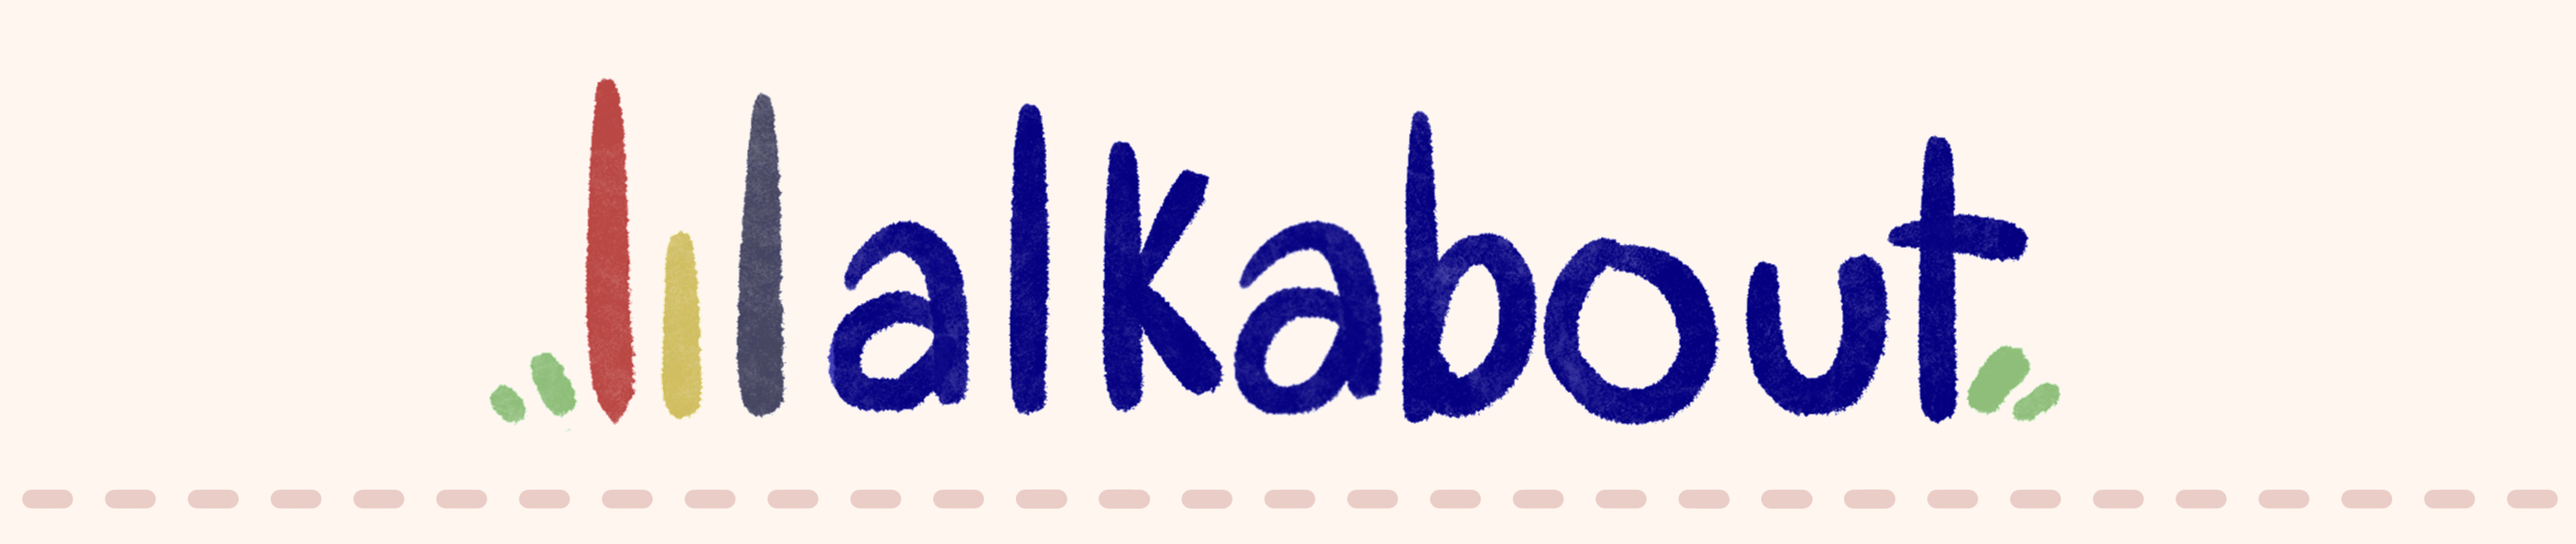
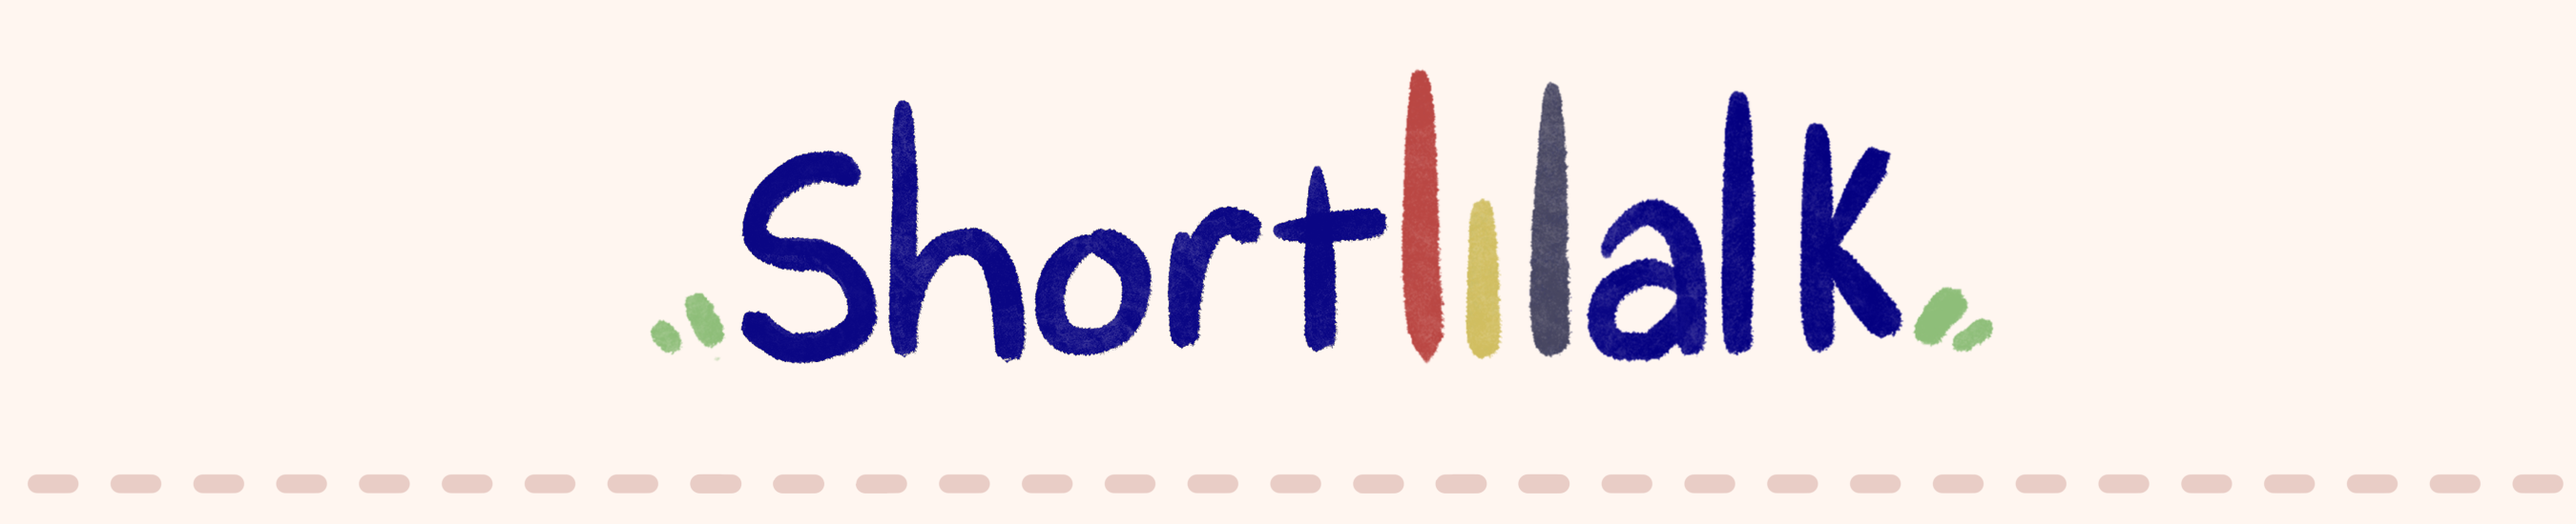
Add files via upload
updated text positioning and header

Changed region(s): [[0.1867, 0.1236, 0.8089, 0.8036], [0.0, 0.8964, 0.9956, 0.9582]]

diff --git a/Story_K.html b/Story_K.html
@@ -1,13 +1,14 @@
 <html>
 <head>
     <img src="img/header.png" alt="All Australian Animals" width="100%">
-  <link rel="stylesheet" href="https://fonts.googleapis.com/css2?family=Nanum+Pen+Script&display=swap">
+    <link rel="stylesheet" href="https://fonts.google.com/specimen/Handlee">   
   <style>
     body {
-      font-family: "Nanum Pen Script", cursive;  
+      font-family: "Handlee", cursive;  
       background-image: url("img/koala_bg.png");
       background-repeat: no-repeat;
       background-size: cover;
+         background-size: 115% 100%;
     }
    </style>
   </head>
@@ -20,17 +21,15 @@
 
 <img src="img/koala_idle.gif" alt="All Australian Animals" width="100%">
 <div style="position: relative;">
-  <h1 style="font-size: 50px; position: absolute; top: 1; left: 50; z-index: 1;">Koala is very happy!</h1>
-  <p style="font-size: 28px; position: absolute; top: 130; left: 50; z-index: 1;">Eucalyptus leaves! Sweet eucalyptus leaves! They are so delicious! <br> Do you want to know why I love eating these leaves so much?</p>
-   <p style="font-size: 28px; position: absolute; top: 210; left: 70; z-index: 1;"> Long ago my ancestor was a human boy and he drank up all the water in his clan. He was so thirsty that he couldn't stop himself.<br> Everyone became angry at him and they banished mhim to the trees where he learned to drink from the eucalyptus leaves and became a Koala. <br> 
-    <p style="font-size: 28px; position: absolute; top: 360; left: 50; z-index: 1;"> Thanks for listening to my story, Here is a clue on where to find tadpole: 
+  <h1 style="font-size: 70px; position: absolute; top: 1; left: 50; z-index: 1;">Koala is very happy!</h1>
+  <p style="font-size: 35px; position: absolute; top: 130; left: 50; z-index: 1;">Eucalyptus leaves! Sweet eucalyptus leaves! They are so delicious! <br> Do you want to know why I love eating these leaves so much?</p>
+    <p style="font-size: 35px; position: absolute; top: 320; left: 50; z-index: 1;"> Here is a clue on where to find tadpole: 
        <br> What can’t walk but always runs, <br> And is filled with germs a ton, <br> I don’t know why tadpole resides there, <br> But towards the state library it can stare. </p>
 <img src="img/textbox.png" width="100%">
 </div>
 
-<footer>
-    <img src="img/footer.png" alt="All Australian Animals" width="100%">
-  <p style="font-size: 40px; position: absolute; top: 660; left: 50; z-index: 1;">Copyright © 2023 Walkabout
+<footer><img src="img/footer.png" alt="All Australian Animals" width="100%">
+  <p style="font-size: 30px; position: absolute; top: 1850; left: 50; z-index: 1;">Copyright © 2023 Walkabout
       <br>All rights reserved.</p>
 </footer>
     

diff --git a/Pet_K.html b/Pet_K.html
@@ -1,13 +1,13 @@
 <html>
 <head>
     <img src="img/header.png" alt="All Australian Animals" width="100%">
-  <link rel="stylesheet" href="https://fonts.googleapis.com/css2?family=Nanum+Pen+Script&display=swap"> 
+    <link rel="stylesheet" href="https://fonts.google.com/specimen/Handlee">   
   <style>
     body {
-      font-family: "Nanum Pen Script", cursive;    
+      font-family: "Handlee", cursive;   
       background-image: url("img/koala_bg.png");
       background-repeat: no-repeat;
-      background-size: cover;
+       background-size: 115% 100%;
     }
    </style>
   </head>
@@ -19,11 +19,11 @@
 <audio src="audio/backgroundmusic.mp3" autoplay loop></audio>
 
     <img src="img/backin5.png" alt="All Australian Animals" width="100%">
-  <h1 style="font-size: 50px; position: absolute; top: 1190; left: 50; z-index: 1;">Koala hated being pet!</h1>
-  <p style="font-size: 50px; position: absolute; top: 1290; left: 50; z-index: 1;">Don't pet me! Mind your grubby fingers before you go around petting random Koala's. If you find me again later, I might talk to you again if you feed me ಠ╭╮ಠ </p>
+  <div style="position: relative;">
+  <h1 style="font-size: 70px; position: absolute; top: 1; left: 50; z-index: 1;">Koala hated being pet!</h1>
+  <p style="font-size: 50px; position: absolute; top: 110; left: 50; z-index: 1;">Don't pet me! Mind your grubby fingers before you go around petting random Koala's. If you find me again later, I might talk to you again if you feed me ಠ╭╮ಠ </p>
 <img src="img/textbox.png" width="100%">
-<footer>
-    <img src="img/footer.png" alt="All Australian Animals" width="100%">
-  <p style="font-size: 40px; position: absolute; top: 660; left: 50; z-index: 1;">Copyright © 2023 Walkabout
+<footer><img src="img/footer.png" alt="All Australian Animals" width="100%">
+  <p style="font-size: 30px; position: absolute; top: 660; left: 50; z-index: 1;">Copyright © 2023 Walkabout
       <br>All rights reserved.</p>
 </footer>

diff --git a/Sing_K.html b/Sing_K.html
@@ -1,13 +1,13 @@
 <html>
 <head>
     <img src="img/header.png" alt="All Australian Animals" width="100%">
-  <link rel="stylesheet" href="https://fonts.googleapis.com/css2?family=Nanum+Pen+Script&display=swap">
+    <link rel="stylesheet" href="https://fonts.google.com/specimen/Handlee">   
   <style>
     body {
-      font-family: "Nanum Pen Script", cursive;  
+      font-family: "Handlee", cursive;  
       background-image: url("img/koala_bg.png");
       background-repeat: no-repeat;
-      background-size: cover;
+       background-size: 115% 100%;
     }
    </style>
   </head>
@@ -22,11 +22,12 @@
     <a href="Sing_2.html"><img src="img/Singbutton.png" alt="Sing" width="32%"/></a>
     <a href="Pet_K.html"><img src="img/Petbutton.png" alt="Pet" width="32%"/></a>
     <img src="img/Koala_sing.gif" alt="All Australian Animals" width="100%">
-  <h1 style="font-size: 50px; position: absolute; top: 1190; left: 50; z-index: 1;">You sung to Koala!</h1>
-  <p style="font-size: 50px; position: absolute; top: 1290; left: 50; z-index: 1;">ZZZ....ZZZ.... Sing? Do you want to sleep together?</p>
+  <div style="position: relative;">
+  <h1 style="font-size: 70px; position: absolute; top: 1; left: 50; z-index: 1;">You sung to Koala!</h1>
+  <p style="font-size: 60px; position: absolute; top: 110; left: 50; z-index: 1;">ZZZ....ZZZ.... Your singing is so calming?</p>
 <img src="img/textbox.png" width="100%">
 <footer>
-    <img src="img/footer.png" alt="All Australian Animals" width="100%">
-  <p style="font-size: 40px; position: absolute; top: 660; left: 50; z-index: 1;">Copyright © 2023 Walkabout
+<footer><img src="img/footer.png" alt="All Australian Animals" width="100%">
+  <p style="font-size: 30px; position: absolute; top: 660; left: 50; z-index: 1;">Copyright © 2023 Walkabout
       <br>All rights reserved.</p>
 </footer>

diff --git a/Feed_K.html b/Feed_K.html
@@ -1,13 +1,13 @@
 <html>
 <head>
     <img src="img/header.png" alt="All Australian Animals" width="100%">
-  <link rel="stylesheet" href="https://fonts.googleapis.com/css2?family=Nanum+Pen+Script&display=swap">  
+    <link rel="stylesheet" href="https://fonts.google.com/specimen/Handlee">   
   <style>
     body {
-      font-family: "Nanum Pen Script", cursive;  
+      font-family: "Handlee", cursive;  
       background-image: url("img/koala_bg.png");
       background-repeat: no-repeat;
-      background-size: cover;
+      background-size: 115% 100%;
     }
    </style>
   </head>
@@ -22,11 +22,11 @@
     <a href="Sing_K.html"><img src="img/Singbutton.png" alt="Sing" width="32%"/></a>
     <a href="Pet_K.html"><img src="img/Petbutton.png" alt="Pet" width="32%"/></a>
     <img src="img/Koala_feed.gif" alt="All Australian Animals" width="100%">
-  <h1 style="font-size: 50px; position: absolute; top: 1190; left: 50; z-index: 1;">Koala was fed!</h1>
-  <p style="font-size: 50px; position: absolute; top: 1290; left: 50; z-index: 1;">Koala seems to be engrossed in eating its leaves.</p>
+  <div style="position: relative;">
+  <h1 style="font-size: 70px; position: absolute; top: 1; left: 50; z-index: 1;">Koala was fed!</h1>
+  <p style="font-size: 60px; position: absolute; top: 110; left: 50; z-index: 1;">Koala seems to be engrossed in eating its leaves.</p>
 <img src="img/textbox.png" width="100%">
-<footer>
-    <img src="img/footer.png" alt="All Australian Animals" width="100%">
-  <p style="font-size: 40px; position: absolute; top: 660; left: 50; z-index: 1;">Copyright © 2023 Walkabout
+<footer><img src="img/footer.png" alt="All Australian Animals" width="100%">
+  <p style="font-size: 30px; position: absolute; top: 660; left: 50; z-index: 1;">Copyright © 2023 Walkabout
       <br>All rights reserved.</p>
 </footer>

diff --git a/Feed_2.html b/Feed_2.html
@@ -1,13 +1,13 @@
 <html>
 <head>
     <img src="img/header.png" alt="All Australian Animals" width="100%">
-  <link rel="stylesheet" href="https://fonts.googleapis.com/css2?family=Nanum+Pen+Script&display=swap">
+    <link rel="stylesheet" href="https://fonts.google.com/specimen/Handlee">   
   <style>
     body {
-      font-family: "Nanum Pen Script", cursive;  
+      font-family: "Handlee", cursive;  
       background-image: url("img/koala_bg.png");
       background-repeat: no-repeat;
-      background-size: cover;
+      background-size: 115% 100%;
     }
    </style>
   </head>
@@ -22,11 +22,11 @@
     <a href="Sing_K.html"><img src="img/Singbutton.png" alt="Sing" width="32%"/></a>
     <a href="Pet_K.html"><img src="img/Petbutton.png" alt="Pet" width="32%"/></a>
     <img src="img/Koala_feed.gif" alt="All Australian Animals" width="100%">
-  <h1 style="font-size: 50px; position: absolute; top: 1190; left: 50; z-index: 1;">Koala was fed!</h1>
-  <p style="font-size: 50px; position: absolute; top: 1290; left: 50; z-index: 1;">Koala seems to really enjoy eating.</p>
+  <div style="position: relative;">
+  <h1 style="font-size: 70px; position: absolute; top: 1; left: 50; z-index: 1;">Koala was fed!</h1>
+  <p style="font-size: 60px; position: absolute; top: 110; left: 50; z-index: 1;">Koala seems to really enjoy eating.</p>
 <img src="img/textbox.png" width="100%">
-<footer>
-    <img src="img/footer.png" alt="All Australian Animals" width="100%">
-  <p style="font-size: 40px; position: absolute; top: 660; left: 50; z-index: 1;">Copyright © 2023 Walkabout
+<footer><img src="img/footer.png" alt="All Australian Animals" width="100%">
+  <p style="font-size: 30px; position: absolute; top: 660; left: 50; z-index: 1;">Copyright © 2023 Walkabout
       <br>All rights reserved.</p>
 </footer>

diff --git a/Sing_2.html b/Sing_2.html
@@ -1,13 +1,13 @@
 <html>
 <head>
     <img src="img/header.png" alt="All Australian Animals" width="100%">
-  <link rel="stylesheet" href="https://fonts.googleapis.com/css2?family=Nanum+Pen+Script&display=swap">
+    <link rel="stylesheet" href="https://fonts.google.com/specimen/Handlee">   
   <style>
     body {
-      font-family: "Nanum Pen Script", cursive;    
+      font-family: "Handlee", cursive;   
       background-image: url("img/koala_bg.png");
       background-repeat: no-repeat;
-      background-size: cover;
+       background-size: 115% 100%;
     }
    </style>
   </head>
@@ -22,11 +22,11 @@
     <img src="img/nosing.png" alt="Sing" width="32%"/>
     <a href="Pet_K.html"><img src="img/Petbutton.png" alt="Pet" width="32%"/></a>
     <img src="img/Koala_sing.gif" alt="All Australian Animals" width="100%">
-  <h1 style="font-size: 50px; position: absolute; top: 1190; left: 50; z-index: 1;">You sung to Koala again!</h1>
-  <p style="font-size: 50px; position: absolute; top: 1290; left: 50; z-index: 1;">Koala is about to fall asleep!</p>
+  <div style="position: relative;">
+  <h1 style="font-size: 70px; position: absolute; top: 1; left: 50; z-index: 1;">You sung to Koala again!</h1>
+  <p style="font-size: 60px; position: absolute; top: 110; left: 50; z-index: 1;">Koala is about to fall asleep!</p>
 <img src="img/textbox.png" width="100%">
-<footer>
-    <img src="img/footer.png" alt="All Australian Animals" width="100%">
-  <p style="font-size: 40px; position: absolute; top: 660; left: 50; z-index: 1;">Copyright © 2023 Walkabout
+         <footer><img src="img/footer.png" alt="All Australian Animals" width="100%">
+  <p style="font-size: 30px; position: absolute; top: 660; left: 50; z-index: 1;">Copyright © 2023 Walkabout
       <br>All rights reserved.</p>
 </footer>

diff --git a/index.html b/index.html
@@ -1,13 +1,13 @@
 <html>
 <head>
     <img src="img/header.png" alt="All Australian Animals" width="100%">
-  <link rel="stylesheet" href="https://fonts.googleapis.com/css2?family=Nanum+Pen+Script&display=swap"> 
+    <link rel="stylesheet" href="https://fonts.google.com/specimen/Handlee">   
   <style>
     body {
-      font-family: "Nanum Pen Script", cursive;  
+      font-family: "Handlee", cursive;  
       background-image: url("img/koala_bg.png");
       background-repeat: no-repeat;
-      background-size: cover;
+       background-size: 115% 100%;
     }
    </style>
   </head>
@@ -22,10 +22,10 @@
     <a href="Sing_K.html"><img src="img/Singbutton.png" alt="Sing" width="32%"/></a>
     <a href="Pet_K.html"><img src="img/Petbutton.png" alt="Pet" width="32%"/></a>
     <img src="img/koala_idle.gif" alt="All Australian Animals" width="100%">
-  <h1 style="font-size: 50px; position: absolute; top: 1190; left: 50; z-index: 1;">Interact with Koala!</h1>
+  <div style="position: relative;">
+  <h1 style="font-size: 70px; position: absolute; top: 1; left: 50; z-index: 1;">Interact with Koala!</h1>
     <img src="img/textbox.png" width="100%">
-<footer>
-    <img src="img/footer.png" alt="All Australian Animals" width="100%">
-  <p style="font-size: 40px; position: absolute; top: 660; left: 50; z-index: 1;">Copyright © 2023 Walkabout
+<footer><img src="img/footer.png" alt="All Australian Animals" width="100%">
+  <p style="font-size: 30px; position: absolute; top: 660; left: 50; z-index: 1;">Copyright © 2023 Walkabout
       <br>All rights reserved.</p>
 </footer>
